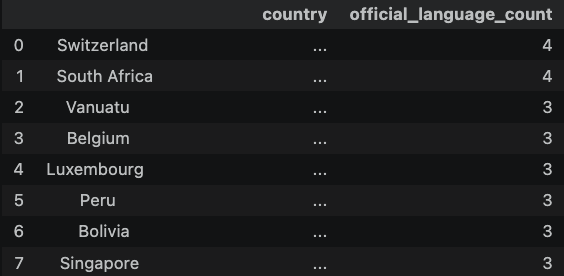
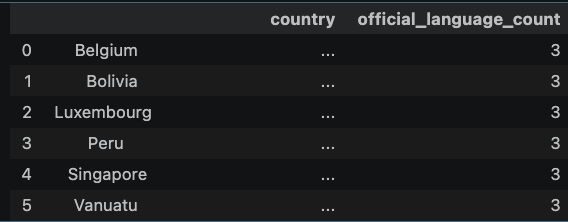
updated 04 exercise

diff --git a/exercises/exercise04.md b/exercises/exercise04.md
@@ -74,8 +74,8 @@ JOIN countrylanguage AS cl
     ON c.code = cl.countrycode
 WHERE cl.isofficial = 'T'
 GROUP BY c.name
-HAVING COUNT(cl.language) > 2
-ORDER BY official_language_count DESC;
+HAVING COUNT(cl.language) = 3
+ORDER BY country;
 """
 
 df = pd.read_sql(query, engine)
